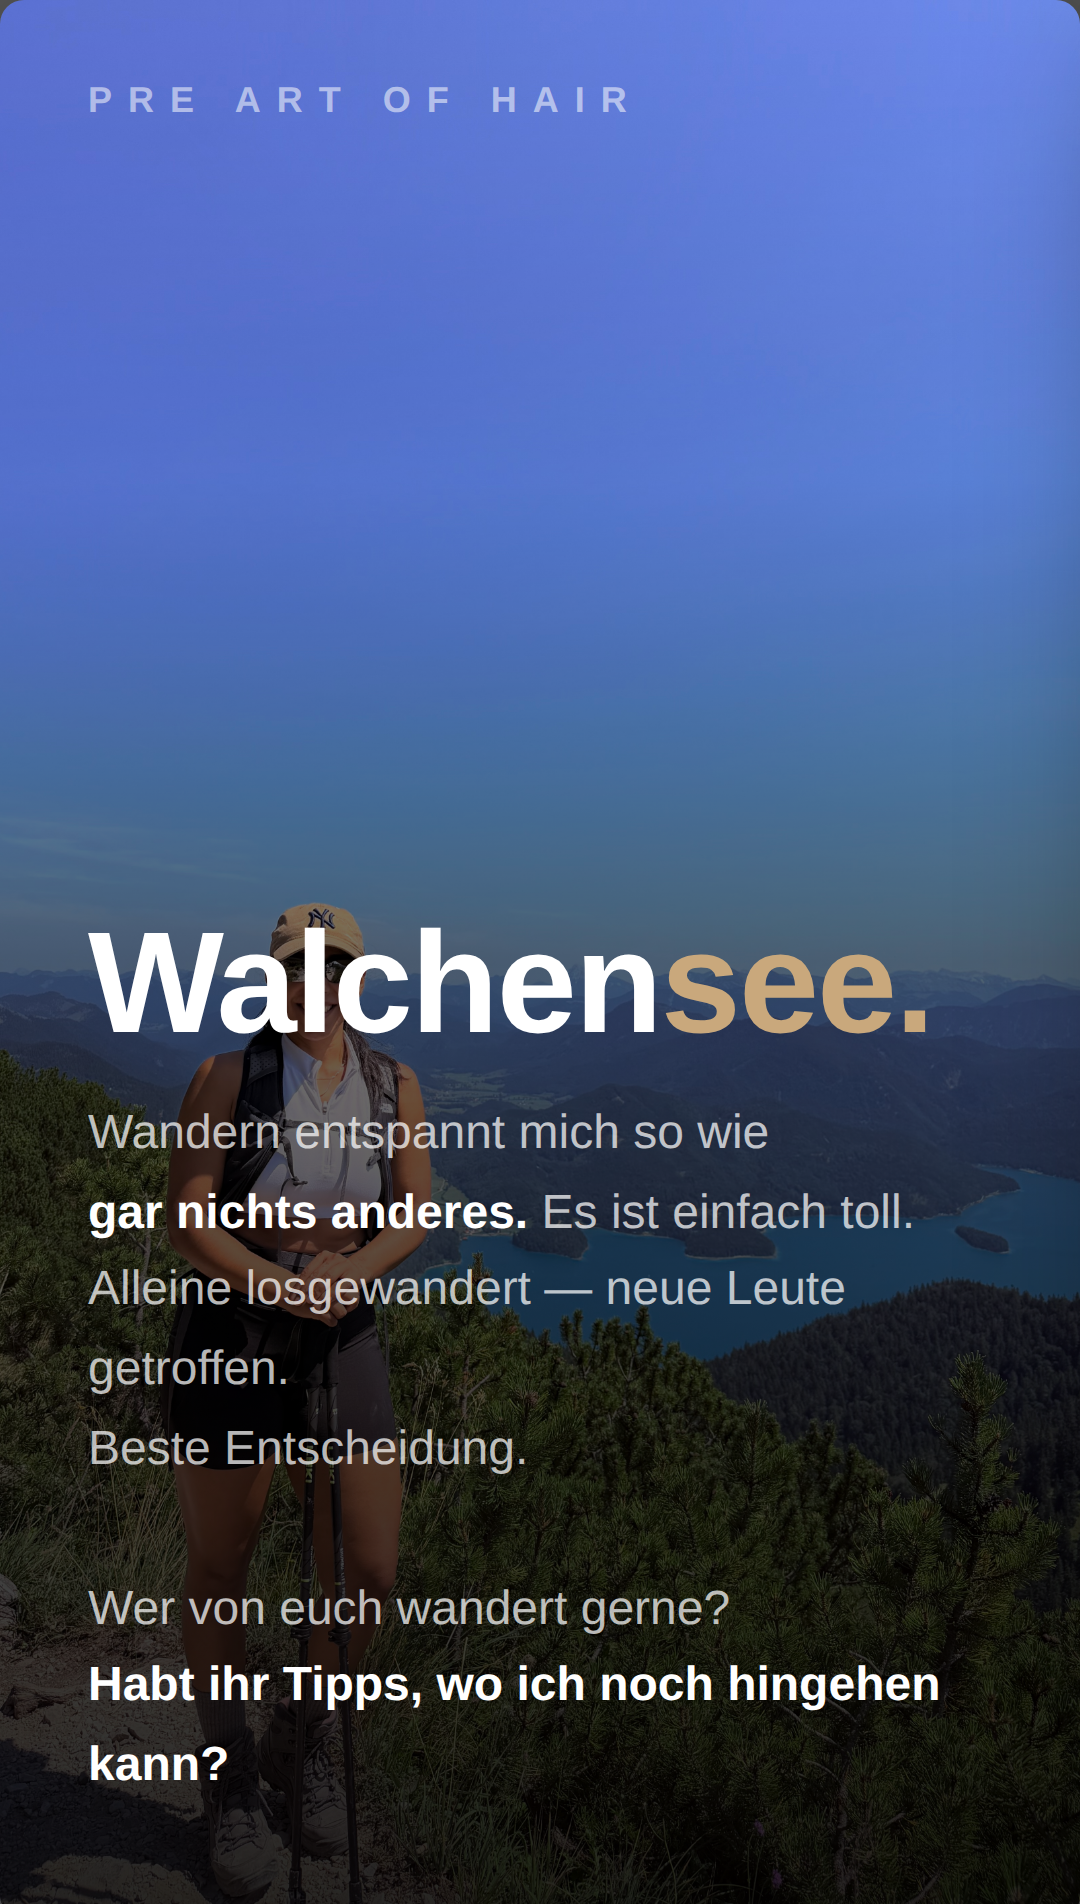
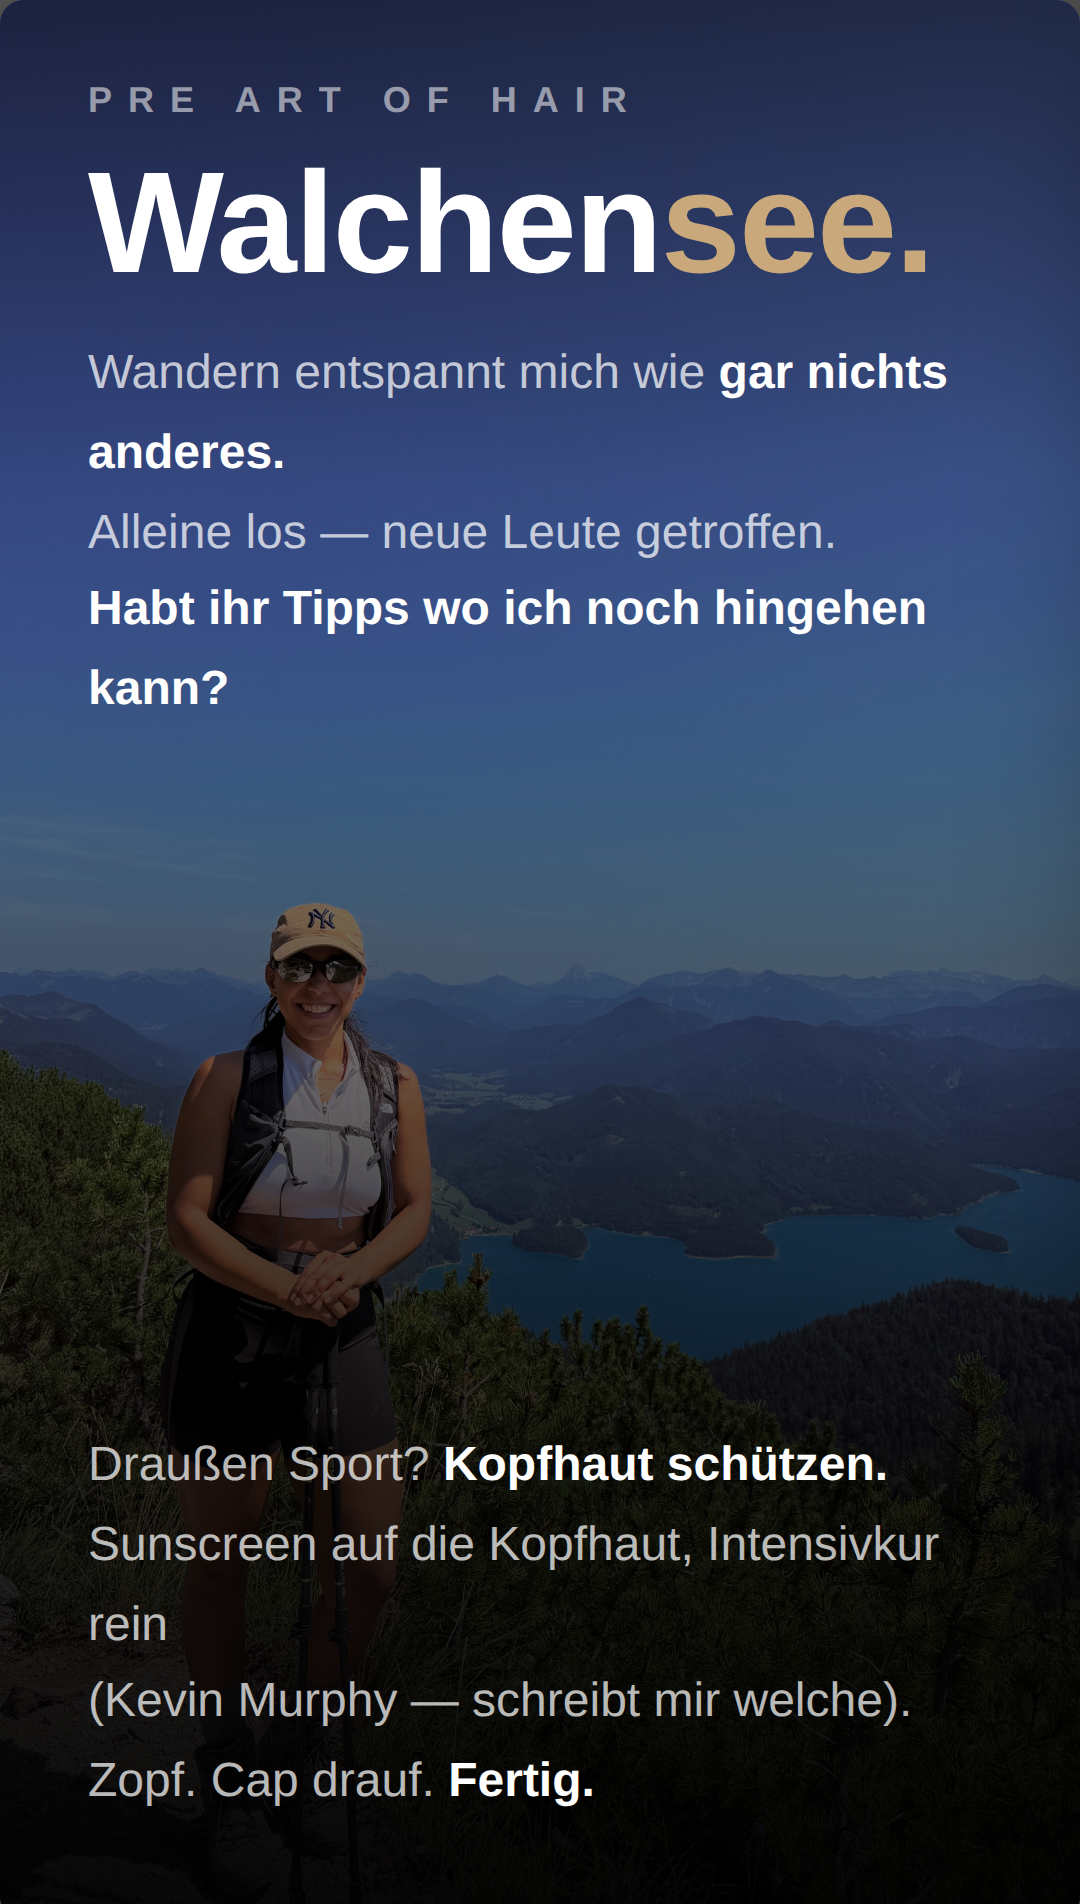
KW31 S1: split layout to show face, add hair protection tip; S2: add massage oil warning
Claude-Session: https://claude.ai/code/session_01BaC8m9wAmbtKccXQSCmnYc

diff --git a/stories-kw31.html b/stories-kw31.html
@@ -114,19 +114,28 @@
 </head>
 <body>
 
-  <!-- S1: Walchensee — Summit Selfie -->
-  <div class="story">
-    <div class="bg" style="background-image: url(kw31-summit.jpeg); background-position: center 65%;"></div>
-    <div class="pre">PRE Art of Hair</div>
-    <div class="content">
+  <!-- S1: Walchensee — Summit Selfie (Gesicht sichtbar: Text oben + unten) -->
+  <div class="story" style="background: #000;">
+    <div class="bg" style="background-image: url(kw31-summit.jpeg); background-position: center center;"></div>
+    <!-- Gradient oben für Headline -->
+    <div style="position:absolute;inset:0;z-index:1;background:linear-gradient(to bottom, rgba(0,0,0,0.70) 0%, rgba(0,0,0,0.20) 38%, transparent 55%, rgba(0,0,0,0.20) 65%, rgba(0,0,0,0.78) 100%);"></div>
+    <!-- Headline oben -->
+    <div style="position:absolute;top:0;left:0;right:0;padding:20px 22px 0;z-index:2;">
+      <div class="pre" style="position:relative;top:auto;left:auto;margin-bottom:8px;">PRE Art of Hair</div>
       <div class="headline">Walchen<span class="c">see.</span></div>
+      <div class="body" style="margin-top:8px;">
+        Wandern entspannt mich wie <b>gar nichts anderes.</b><br>
+        Alleine los — neue Leute getroffen.<br>
+        <b>Habt ihr Tipps wo ich noch hingehen kann?</b>
+      </div>
+    </div>
+    <!-- Haar-Tipp unten -->
+    <div style="position:absolute;bottom:0;left:0;right:0;padding:0 22px 24px;z-index:2;">
       <div class="body">
-        Wandern entspannt mich so wie<br>
-        <b>gar nichts anderes.</b> Es ist einfach toll.<br>
-        Alleine losgewandert — neue Leute getroffen.<br>
-        Beste Entscheidung.<br><br>
-        Wer von euch wandert gerne?<br>
-        <b>Habt ihr Tipps, wo ich noch hingehen kann?</b>
+        Draußen Sport? <b>Kopfhaut schützen.</b><br>
+        Sunscreen auf die Kopfhaut, Intensivkur rein<br>
+        (Kevin Murphy — schreibt mir welche).<br>
+        Zopf. Cap drauf. <b>Fertig.</b>
       </div>
     </div>
   </div>
@@ -139,9 +148,12 @@
       <div class="headline">Voll <span class="c">aufge<br>laden.</span></div>
       <div class="body">
         Amazing. <b>Bin voll aufgetankt.</b> Für euch.<br><br>
-        Und noch was: <b>Odyssee</b> im Kino —<br>
-        ich kann den Film so krass empfehlen.<br>
-        <b>Schaut ihn euch an.</b>
+        Und noch: <b>Odyssee</b> im Kino — schaut ihn euch an.<br><br>
+        Wichtig nach der Thai Massage:<br>
+        <b>Das Öl immer gut auswaschen.</b><br>
+        Es kann zu Reizungen führen.<br>
+        Und bitte — kein Massageöl in die Haare<br>
+        oder auf die Kopfhaut.
       </div>
     </div>
   </div>
